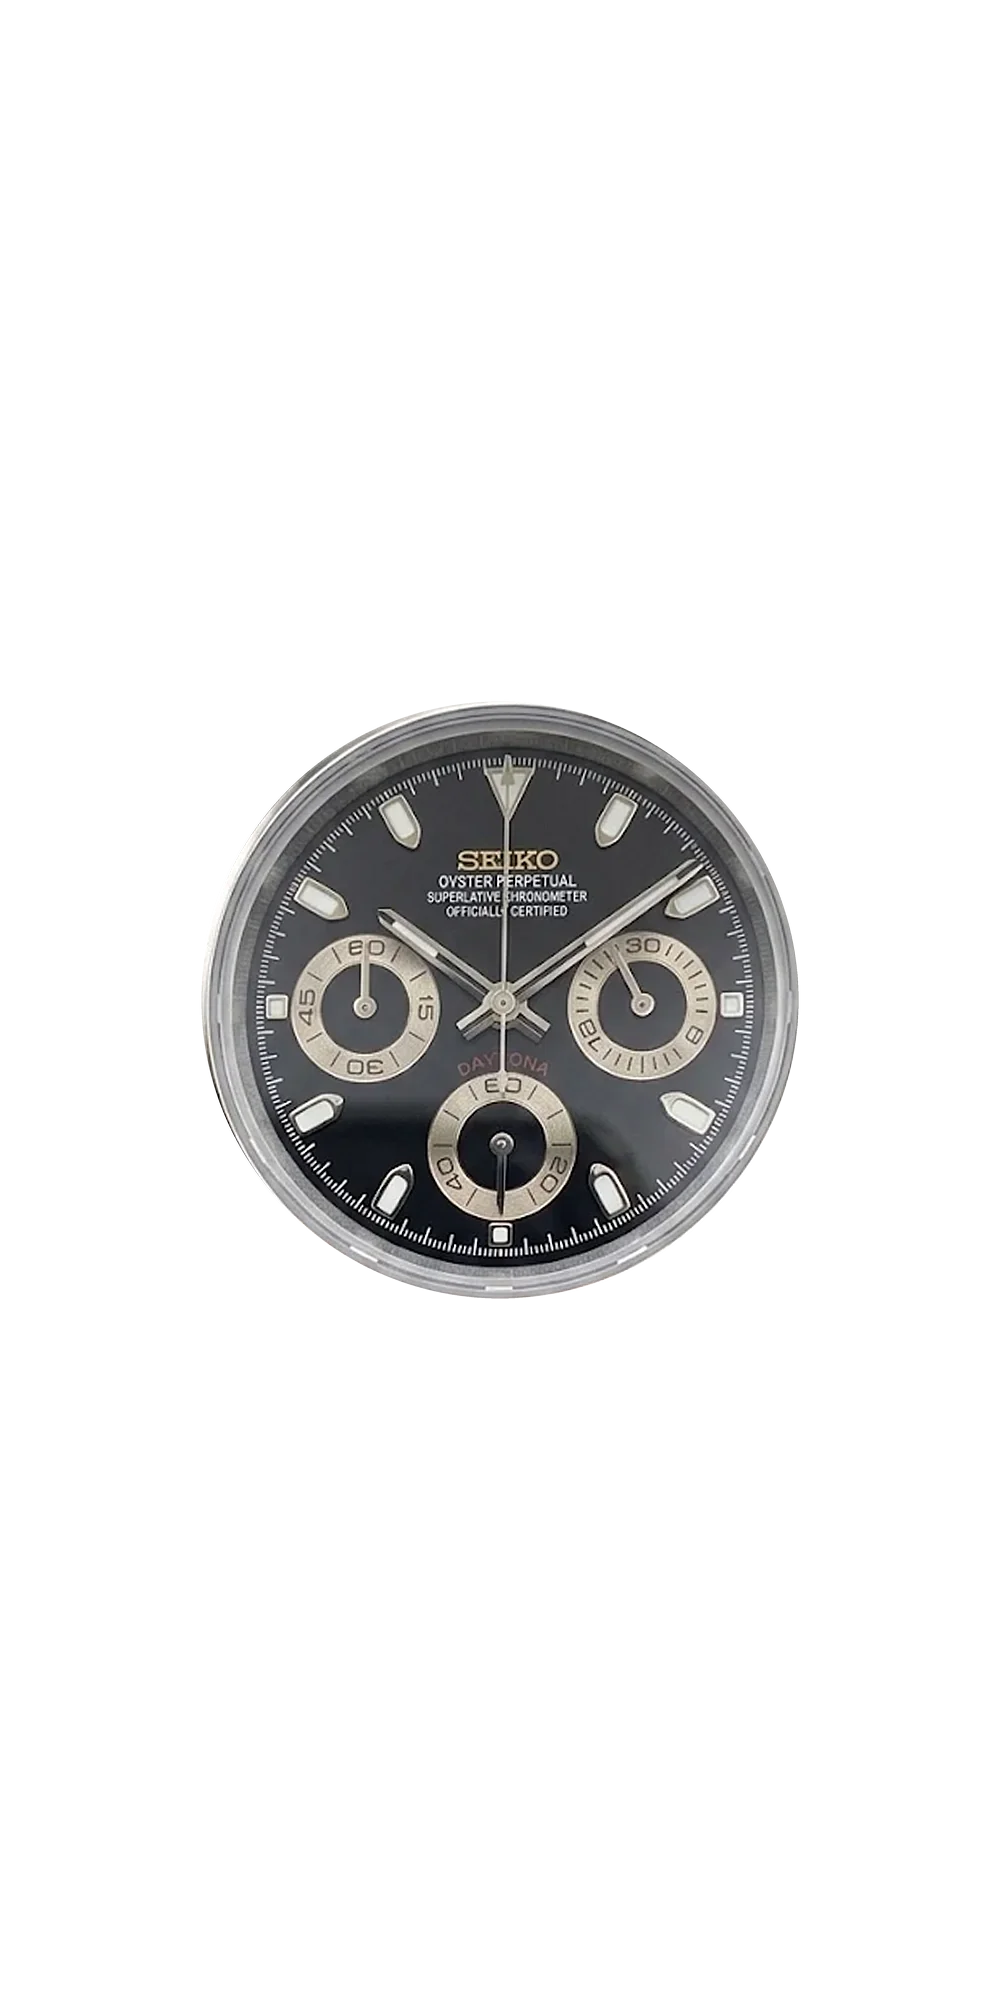
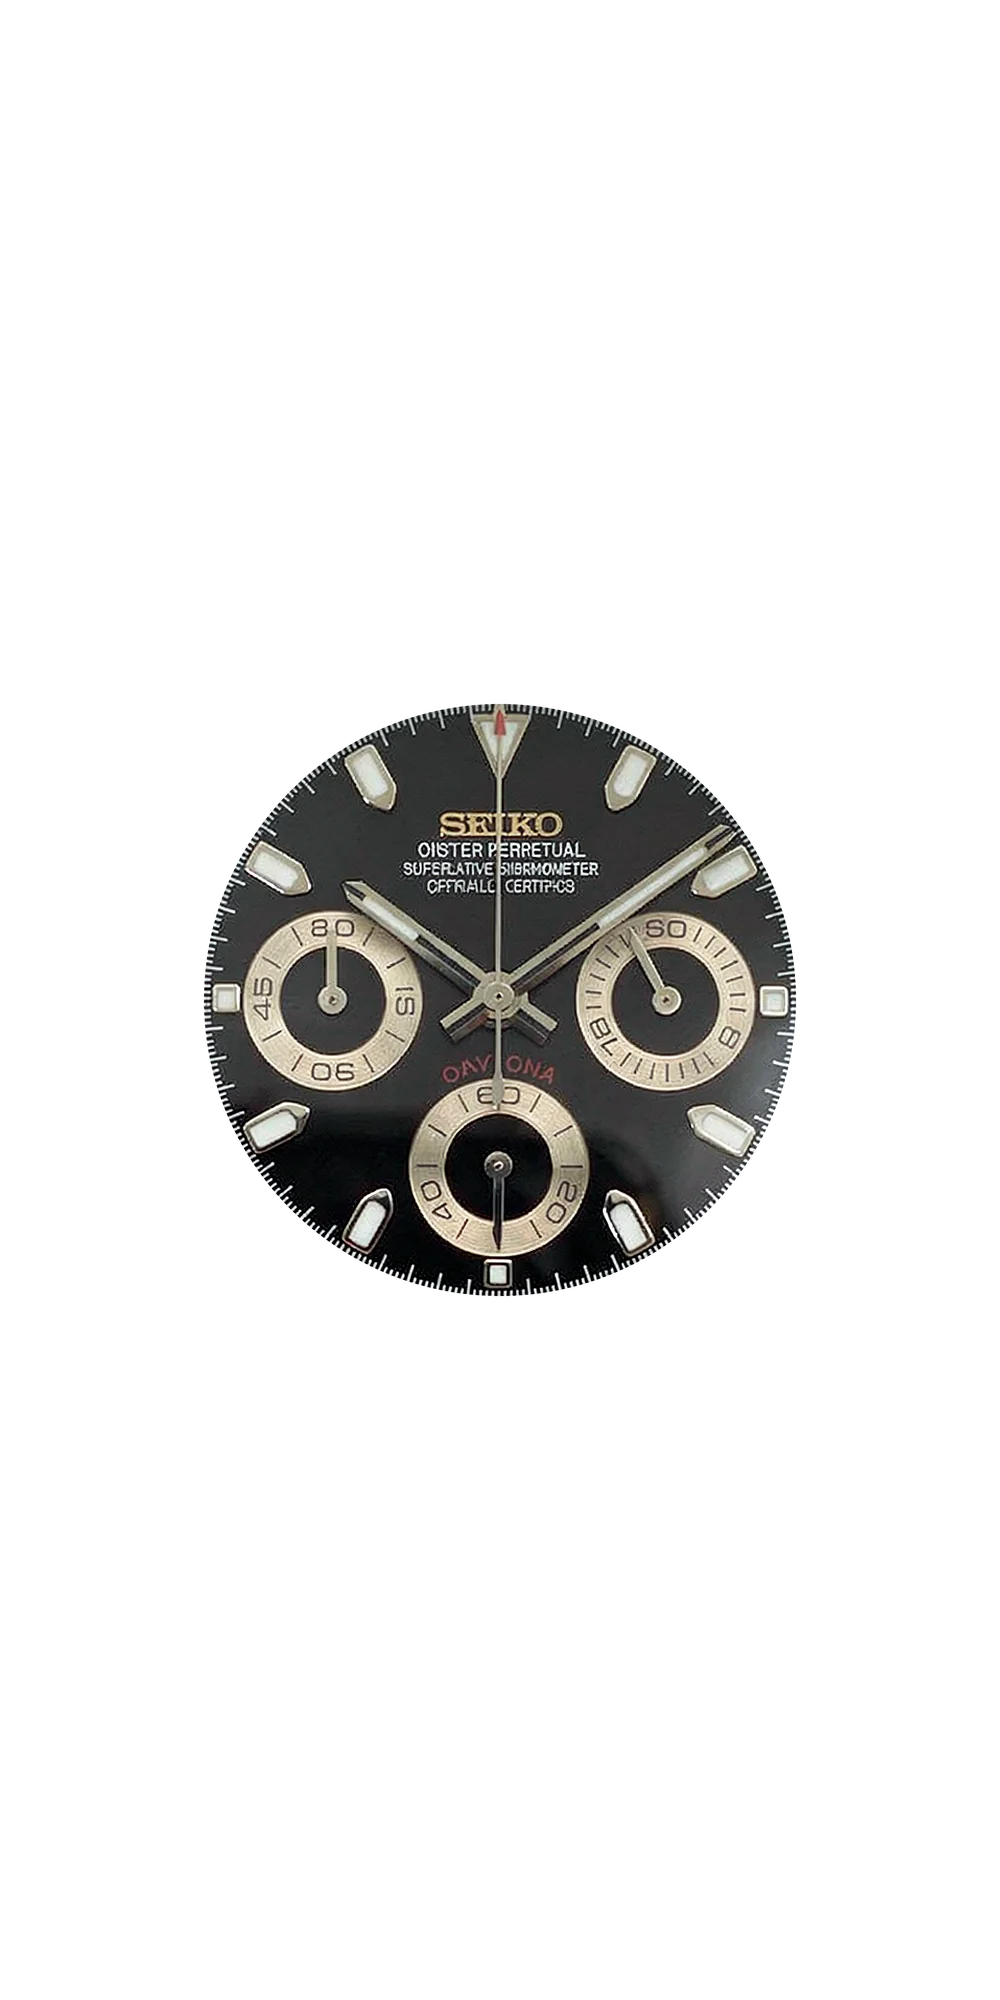
Recut Daytona parts from straightened photos with centered dials

Changed region(s): [[0.186, 0.341, 0.806, 0.651]]

diff --git a/scripts/builder/leo_daytona_split.py b/scripts/builder/leo_daytona_split.py
@@ -39,8 +39,9 @@ Q = 85
 CW, CH = 1000, 2000
 CX, CY = 500, 1000
 R = 300.0                 # canonical dial radius (inner edge of the bezel), 600 px = 28.8 mm
-OPEN_IN = 7.0             # case opening radius = R - OPEN_IN (keeps the lip of the bezel)
-DIAL_IN = 1.5             # dial cut radius = R - DIAL_IN (tucks under the lip)
+SAFE = 0.99               # dial is cut at SAFE x the outer end of its own minute track (never reaches the crystal ring)
+OPEN_IN = 8.0             # case opening radius = R - OPEN_IN (the bezel lip + crystal rim stay in the case)
+R_CUT = R - 4.0           # canonical radius where the dial's own cut (SAFE x printed edge) lands
 ARC_A = 520.0             # horizontal radius of the outer bezel arc model (flat top, measured on the photos)
 EROSION = {}              # source-edge erosion (px), default 2
 
@@ -48,6 +49,15 @@ CASE_IDS = ["02", "07", "01", "08", "05", "14", "15", "11", "10"]
 DIAL_IDS = ["01", "02", "03", "04", "05", "06", "07", "08", "09", "10", "11", "12", "13", "14"]
 STRAP_IDS = ["02", "11", "08"]
 ALL_IDS = ["%02d" % k for k in range(1, 16)]
+# straightened FLUX sources (fotos-leo/daytona/enderezadas/dt-NN.png, frontal) replace the originals
+FLUX = {"01", "02", "03", "06", "09", "11", "13"}
+FLUX_SEED = {'01': (696, 891, 350), '02': (726, 861, 300), '03': (684, 885, 330), '06': (696, 870, 330),
+             '09': (711, 879, 330), '11': (714, 891, 340), '13': (699, 900, 340)}
+# outer bezel top / bottom rows (centre column, canonical space) for the straightened sources
+BEZ_FLUX = {}
+# cases taken from the straightened sources. dt-02 stays on the original photo: the straightened one
+# is still strongly tilted (outer bezel 380..426 px from the dial centre) and its bezel does not rectify cleanly
+FLUX_CASE = {"01", "11"}
 RUBBER = {"01", "05", "08", "10"}   # photos that carry a rubber (Oysterflex) strap
 
 # hand guesses (cx, cy, r) of the inner bezel edge in source pixels (seed of the ellipse fit)
@@ -65,7 +75,9 @@ BEZ = {
 }
 
 
-def src_path(i):
+def src_path(i, flux=False):
+    if flux:
+        return os.path.join(SRCD, "enderezadas", f"dt-{i}.png")
     return glob.glob(os.path.join(SRCD, "originales", f"dt-{i}-*"))[0]
 
 
@@ -150,6 +162,152 @@ def affine_to_circle(ell):
     return np.hstack([L, t[:, None]]).astype(np.float64)
 
 
+def _polar(rgb, c, rm, r0, r1, na, nr):
+    t = np.linspace(0, 2 * np.pi, na, endpoint=False)[None, :]
+    r = np.linspace(r0, r1, nr)[:, None] * rm
+    mx = (c[0] + r * np.cos(t)).astype(np.float32)
+    my = (c[1] + r * np.sin(t)).astype(np.float32)
+    return cv2.remap(rgb, mx, my, cv2.INTER_CUBIC, borderMode=cv2.BORDER_REPLICATE), t[0]
+
+
+def fit_dial_edge(rgb, ell, na=720, nr=240, r0=0.78, r1=0.985):
+    """Outer end of the dial's own minute track (the ring of radial ticks), seen as the outermost
+    radius with strong tangential luminance variation. The dial is eccentric w.r.t. the bezel in the
+    photos (parallax), so it is fitted as its own ellipse and re-centred twice."""
+    (x, y), (ma, mi), ang = ell
+    rm = (ma + mi) / 4
+    c = np.array([x, y], np.float64)
+    out = None
+    for _ in range(3):
+        P, t = _polar(rgb, c, rm, r0, r1, na, nr)
+        L = P.astype(np.float32).mean(2)
+        Dt = cv2.GaussianBlur(np.abs(np.roll(L, -1, 1) - L), (0, 0), sigmaX=4, sigmaY=1.2)
+        rs = np.linspace(r0, r1, nr)
+        edge = np.full(na, np.nan)
+        for k in range(na):
+            sk = Dt[:, k]
+            hi = sk > 0.4 * np.percentile(sk, 92)
+            idx = np.where(hi)[0]
+            if len(idx):
+                # contiguous run of strong tick/print variation that starts the dial track; a gap of
+                # ~12 rows ends it (dashes or gem texture beyond the track are ignored)
+                j = idx[0]
+                gap = 0
+                last = j
+                while j < nr:
+                    if hi[j]:
+                        last = j
+                        gap = 0
+                    else:
+                        gap += 1
+                        if gap > 12:
+                            break
+                    j += 1
+                edge[k] = rs[last]
+        med = cv2.medianBlur(np.nan_to_num(edge, nan=np.nanmedian(edge)).astype(np.float32).reshape(1, -1), 1)[0]
+        # circular running median
+        pad = 25
+        e2 = np.concatenate([edge[-pad:], edge, edge[:pad]])
+        med = np.array([np.nanmedian(e2[k:k + 2 * pad + 1]) for k in range(na)])
+        ok = ~np.isnan(edge) & (np.abs(edge - med) < 0.012)
+        pts = np.stack([c[0] + edge * rm * np.cos(t), c[1] + edge * rm * np.sin(t)], 1)[ok].astype(np.float32)
+        keep = np.ones(len(pts), bool)
+        for _i in range(4):
+            (ex, ey), (a_, b_), an = cv2.fitEllipse(pts[keep])
+            aa = np.deg2rad(an)
+            d = pts - [ex, ey]
+            u = d[:, 0] * np.cos(aa) + d[:, 1] * np.sin(aa)
+            v = -d[:, 0] * np.sin(aa) + d[:, 1] * np.cos(aa)
+            res = np.abs(np.hypot(u / (a_ / 2), v / (b_ / 2)) - 1) * (a_ + b_) / 4
+            keep = res < max(1.5, np.percentile(res, 75) * 1.5)
+        out = cv2.fitEllipse(pts[keep])
+        c = np.array(out[0], np.float64)
+        rm = (out[1][0] + out[1][1]) / 4 / 0.93      # next window centred on the found edge
+    return out
+
+
+def _ell_radius(e, th):
+    """Radius from (500,1000) of ellipse e along the angles th."""
+    (ex, ey), (ma, mi), ang = e
+    a = np.deg2rad(ang)
+    t = np.linspace(0, 2 * np.pi, 2000, endpoint=False)
+    u, v = ma / 2 * np.cos(t), mi / 2 * np.sin(t)
+    x = ex + u * np.cos(a) - v * np.sin(a) - CX
+    y = ey + u * np.sin(a) + v * np.cos(a) - CY
+    ph = np.arctan2(y, x) % (2 * np.pi)
+    o = np.argsort(ph)
+    return np.interp(th % (2 * np.pi), ph[o], np.hypot(x, y)[o], period=2 * np.pi)
+
+
+def fit_outer_bezel(w, rlo=325, rhi=480, na=720):
+    """Outer edge of the bezel in the circle-warped image w: candidate edges along rays from the dial
+    centre, then a RANSAC ellipse fit that keeps the model covering most angles (the outer edge is the
+    long continuous boundary; lugs/crown give only isolated candidates)."""
+    rng = np.random.default_rng(3)
+    t = np.linspace(0, 2 * np.pi, na, endpoint=False)[None, :]
+    r = np.arange(rlo, rhi, 0.5)[:, None]
+    P = cv2.remap(w, (CX + r * np.cos(t)).astype(np.float32), (CY + r * np.sin(t)).astype(np.float32), cv2.INTER_CUBIC)
+    lab = cv2.cvtColor(cv2.GaussianBlur(P, (0, 0), 1.0), cv2.COLOR_RGB2LAB).astype(np.float32)
+    g = cv2.GaussianBlur(np.linalg.norm(np.diff(lab, axis=0), axis=2), (0, 0), sigmaX=2, sigmaY=1)
+    C = []
+    for k in range(na):
+        sk = g[:, k]
+        thr = 0.6 * np.percentile(sk, 97)
+        for j in range(2, len(sk) - 2):
+            if sk[j] > sk[j - 1] and sk[j] >= sk[j + 1] and sk[j] > thr:
+                C.append((t[0][k], rlo + 0.5 * j))
+    C = np.array(C)
+    th, rr = C[:, 0], C[:, 1]
+    pts = np.stack([CX + rr * np.cos(th), CY + rr * np.sin(th)], 1).astype(np.float32)
+    best = None
+    for _ in range(4000):
+        idx = rng.choice(len(C), 6, replace=False)
+        try:
+            e = cv2.fitEllipse(pts[idx])
+        except cv2.error:
+            continue
+        if not (250 < e[1][0] / 2 < 520 and 250 < e[1][1] / 2 < 520):
+            continue
+        inl = np.abs(_ell_radius(e, th) - rr) < 2.5
+        sc = len(set((th[inl] * 180 / np.pi).astype(int)))
+        if best is None or sc > best[0]:
+            best = (sc, inl)
+    return cv2.fitEllipse(pts[best[1]])
+
+
+RB_MIN, RB_MAX = 352.0, 385.0     # allowed outer bezel radius after straightening
+DECAY = 60.0                      # the radial correction fades out over this many px beyond the bezel
+
+
+def rectify_case(a):
+    """Even out the bezel: photos shot at an angle show the bezel (a raised ring) thicker on one side, and an
+    affine map cannot fix that. The outer bezel edge is fitted as its own ellipse and the annulus between the
+    inner circle (R) and that edge is stretched radially so the outer edge also becomes a circle (Rb), centred
+    on the dial. Done as a single resampling of the source. Returns a source-like dict in canvas space."""
+    w = cv2.warpAffine(a["rgb"], a["M"], (CW, CH), flags=cv2.INTER_CUBIC, borderMode=cv2.BORDER_REPLICATE)
+    e = fit_outer_bezel(w)
+    X, Y = np.meshgrid(np.arange(CW, dtype=np.float64), np.arange(CH, dtype=np.float64))
+    dx, dy = X - CX, Y - CY
+    rho = np.hypot(dx, dy)
+    th = np.arctan2(dy, dx)
+    ro = _ell_radius(e, th.ravel()).reshape(th.shape)
+    Rb = float(np.clip(_ell_radius(e, np.linspace(0, 2 * np.pi, 720, endpoint=False)).mean(), RB_MIN, RB_MAX))
+    D = ro - Rb
+    rsrc = np.where(rho <= R, rho,
+                    np.where(rho <= Rb, R + (rho - R) * (ro - R) / (Rb - R),
+                             rho + D * np.maximum(0, 1 - (rho - Rb) / DECAY)))
+    wx = CX + rsrc * np.cos(th)
+    wy = CY + rsrc * np.sin(th)
+    Mi = a["Minv"]
+    sx = (Mi[0, 0] * wx + Mi[0, 1] * wy + Mi[0, 2]).astype(np.float32)
+    sy = (Mi[1, 0] * wx + Mi[1, 1] * wy + Mi[1, 2]).astype(np.float32)
+    rgb2 = cv2.remap(a["rgb"], sx, sy, cv2.INTER_CUBIC, borderMode=cv2.BORDER_REPLICATE)
+    fg2 = (cv2.remap(a["fg"].astype(np.float32), sx, sy, cv2.INTER_LINEAR, borderValue=0) > 0.5).astype(np.uint8)
+    I = np.array([[1, 0, 0], [0, 1, 0]], np.float64)
+    return dict(a, rgb=rgb2, fg=fg2, M=I, Minv=I, rectified=True, Rb=Rb, outer=e,
+                btop=int(round(CY - Rb)), bbot=int(round(CY + Rb)))
+
+
 # ----------------------------------------------------------------------------- measures
 def find_cuts(m, win):
     """Seam rows = where the case outline flares out from the strap/lug block."""
@@ -194,13 +352,46 @@ def strip_fit(m, y0, y1):
     return np.polyfit(ys[ok], ls[ok], 1), np.polyfit(ys[ok], rs[ok], 1)
 
 
-def analyse(i):
-    rgb = np.array(Image.open(src_path(i)).convert("RGB"))
-    ell = fit_inner(rgb, GUESS[i])
-    M = affine_to_circle(ell)
+_CACHE = {}
+
+
+def circle_affine(ell, rad):
+    """src -> canonical: ellipse becomes the circle of radius rad centred on (500,1000)."""
+    (ex, ey), (ma, mi), ang = ell
+    a = np.deg2rad(ang)
+    c, s_ = np.cos(a), np.sin(a)
+    Rm = np.array([[c, s_], [-s_, c]])
+    L = Rm.T @ np.diag([rad / (ma / 2), rad / (mi / 2)]) @ Rm
+    t = np.array([CX, CY]) - L @ np.array([ex, ey])
+    return np.hstack([L, t[:, None]]).astype(np.float64)
+
+
+def ellipse_pts(ell, n=360):
+    (ex, ey), (ma, mi), ang = ell
+    a = np.deg2rad(ang)
+    t = np.linspace(0, 2 * np.pi, n, endpoint=False)
+    u, v = ma / 2 * np.cos(t), mi / 2 * np.sin(t)
+    return np.stack([ex + u * np.cos(a) - v * np.sin(a), ey + u * np.sin(a) + v * np.cos(a)], 1)
+
+
+def analyse(i, flux=False, rect=False):
+    key = (i, flux, rect)
+    if key in _CACHE:
+        return _CACHE[key]
+    rgb = np.array(Image.open(src_path(i, flux)).convert("RGB"))
+    if flux:
+        ell = fit_inner(rgb, FLUX_SEED[i], span=0.22)
+    else:
+        ell = fit_inner(rgb, GUESS[i])
+    M = circle_affine(ell, R)
     fg = fg_mask(rgb)
-    a = dict(id=i, rgb=rgb, fg=fg, M=M, Minv=cv2.invertAffineTransform(M))
-    if i in BEZ:
+    a = dict(id=i, flux=flux, rgb=rgb, fg=fg, M=M, Minv=cv2.invertAffineTransform(M), ell=ell)
+    bez = (BEZ_FLUX if flux else BEZ).get(i)
+    if rect:
+        a = rectify_case(a)
+        fg, M = a["fg"], a["M"]
+        bez = (a["btop"], a["bbot"])
+    if bez is not None:
         wm = (cv2.warpAffine(fg * 255, M, (CW, CH), flags=cv2.INTER_LINEAR) > 127).astype(np.uint8)
         ct, cb = find_cuts(wm, (CX - R, CY - R, CX + R, CY + R))
         lt, rt = strip_fit(wm, ct - 220, ct - 30)
@@ -210,7 +401,8 @@ def analyse(i):
         a.update(wm=wm, ct=ct, cb=cb, lt=lt, rt=rt, lb=lb, rb=rb, ls=(wt_ + wb_) / 2,
                  ctc=(np.polyval(rt, ct) + np.polyval(lt, ct)) / 2,
                  cbc=(np.polyval(rb, cb) + np.polyval(lb, cb)) / 2,
-                 btop=BEZ[i][0], bbot=BEZ[i][1])
+                 btop=bez[0], bbot=bez[1])
+    _CACHE[key] = a
     return a
 
 
@@ -293,10 +485,16 @@ def disc(r, ss=4):
 
 
 # ----------------------------------------------------------------------------- layers
-def dial_layer(a):
+def dial_layer(a, r_cut):
+    """Dial cut at SAFE x its own printed edge, centred on the dial (hands axis), scaled so that
+    cut lands on the canonical radius r_cut."""
+    dell = fit_dial_edge(a["rgb"], a["ell"])
+    a["dell"] = dell
+    Md = circle_affine(dell, r_cut / SAFE)
+    b = dict(a, Minv=cv2.invertAffineTransform(Md))
     wx, wy = identity_maps()
-    col = sharpen(sample(a, wx, wy, "rgb").astype(np.float32))
-    return to_rgba(col, disc(R - DIAL_IN))
+    col = sharpen(sample(b, wx, wy, "rgb").astype(np.float32))
+    return to_rgba(col, disc(r_cut))
 
 
 def strip_alpha(a):
@@ -450,33 +648,36 @@ MIXES = [
 
 def main():
     mode = sys.argv[1] if len(sys.argv) > 1 else "all"
-    A = {i: analyse(i) for i in ALL_IDS}
-    parts = [i for i in ALL_IDS if i in BEZ]
-    canon = dict(lug=float(np.median([A[i]["ls"] for i in parts])),
-                 CT=float(np.median([A[i]["ct"] for i in parts])),
-                 CB=float(np.median([A[i]["cb"] for i in parts])))
+    AC = {i: analyse(i, i in FLUX_CASE, True) for i in CASE_IDS}     # case sources (bezel straightened)
+    AS = {i: analyse(i, False) for i in STRAP_IDS}              # strap sources (original photos)
+    AD = {i: analyse(i, i in FLUX) for i in DIAL_IDS}           # dial sources
+    parts = list(AC.values()) + list(AS.values())
+    canon = dict(lug=float(np.median([a["ls"] for a in parts])),
+                 CT=float(np.median([a["ct"] for a in parts])),
+                 CB=float(np.median([a["cb"] for a in parts])))
     print("canon", canon, "R", R)
-    for i in parts:
-        a = A[i]
-        print(i, "ct", a["ct"], "cb", a["cb"], "lug", round(a["ls"]), "btop/bbot", a["btop"], a["bbot"])
-    deep = (max(v[0] for v in BEZ.values()) + 12, min(v[1] for v in BEZ.values()) - 12)
+    for k, A_ in (("case", AC), ("strap", AS)):
+        for i, a in A_.items():
+            print(k, i, "flux" if a["flux"] else "orig", "ct", a["ct"], "cb", a["cb"], "lug", round(a["ls"]),
+                  "btop/bbot", a["btop"], a["bbot"])
+    deep = (max(a["btop"] for a in parts) + 12, min(a["bbot"] for a in parts) - 12)
+    r_cut = R_CUT
     os.makedirs(OUT, exist_ok=True)
     shadow = shadow_layer()
-    L = {}
-    for i in ALL_IDS:
-        L[i] = {}
-        if i in DIAL_IDS:
-            L[i]["dial"] = dial_layer(A[i])
-    cases0 = {i: case_layer(A[i], canon) for i in parts}
+    L = {"case": {}, "dial": {}, "strap": {}}
+    for i, a in AD.items():
+        L["dial"][i] = dial_layer(a, r_cut)
+    cases0 = {i: case_layer(a, canon) for i, a in AC.items()}
     ext = case_ext(cases0)
-    for i in parts:
-        L[i]["case"] = case_layer(A[i], canon, ext)
-        L[i]["strap"] = strap_layer(A[i], canon, deep, ext)
+    for i, a in AC.items():
+        L["case"][i] = case_layer(a, canon, ext)
+    for i, a in AS.items():
+        L["strap"][i] = strap_layer(a, canon, deep, ext)
     if mode in ("export", "all"):
         os.makedirs(WEB, exist_ok=True)
-        for i in CASE_IDS: L[i]["case"].save(os.path.join(WEB, f"case-dt-{i}.webp"), "WEBP", quality=Q, method=6)
-        for i in DIAL_IDS: L[i]["dial"].save(os.path.join(WEB, f"dial-dt-{i}.webp"), "WEBP", quality=Q, method=6)
-        for i in STRAP_IDS: L[i]["strap"].save(os.path.join(WEB, f"strap-dt-{i}.webp"), "WEBP", quality=Q, method=6)
+        for i in CASE_IDS: L["case"][i].save(os.path.join(WEB, f"case-dt-{i}.webp"), "WEBP", quality=Q, method=6)
+        for i in DIAL_IDS: L["dial"][i].save(os.path.join(WEB, f"dial-dt-{i}.webp"), "WEBP", quality=Q, method=6)
+        for i in STRAP_IDS: L["strap"][i].save(os.path.join(WEB, f"strap-dt-{i}.webp"), "WEBP", quality=Q, method=6)
         shadow.save(os.path.join(WEB, "shadowdial.webp"), "WEBP", quality=Q, method=6)
     if mode in ("sheets", "all"):
         sheets(L, shadow)
@@ -486,16 +687,16 @@ def main():
 def sheets(L, shadow):
     tiles = []
     for c, d, s, name in MIXES:
-        im = stack([L[s]["strap"], L[d]["dial"], shadow, L[c]["case"]]).convert("RGB")
+        im = stack([L["strap"][s], L["dial"][d], shadow, L["case"][c]]).convert("RGB")
         tiles.append(im.crop((0, 250, 1000, 1750)).resize((400, 600), Image.LANCZOS))
     sh = Image.new("RGB", (400 * 4, 600 * 2), "white")
     for k, t in enumerate(tiles):
         sh.paste(t, ((k % 4) * 400, (k // 4) * 600))
     sh.save(os.path.join(OUT, "mezclas.jpg"), quality=90)
     cells = []
-    for i in CASE_IDS: cells.append(("case dt-" + i, stack([L[i]["case"]])))
-    for i in DIAL_IDS: cells.append(("dial dt-" + i, stack([L[i]["dial"], shadow])))
-    for i in STRAP_IDS: cells.append(("strap dt-" + i, stack([L[i]["strap"]])))
+    for i in CASE_IDS: cells.append(("case dt-" + i, stack([L["case"][i]])))
+    for i in DIAL_IDS: cells.append(("dial dt-" + i, stack([L["dial"][i], shadow])))
+    for i in STRAP_IDS: cells.append(("strap dt-" + i, stack([L["strap"][i]])))
     cols = 8
     rows = (len(cells) + cols - 1) // cols
     cw, ch = 250, 420
